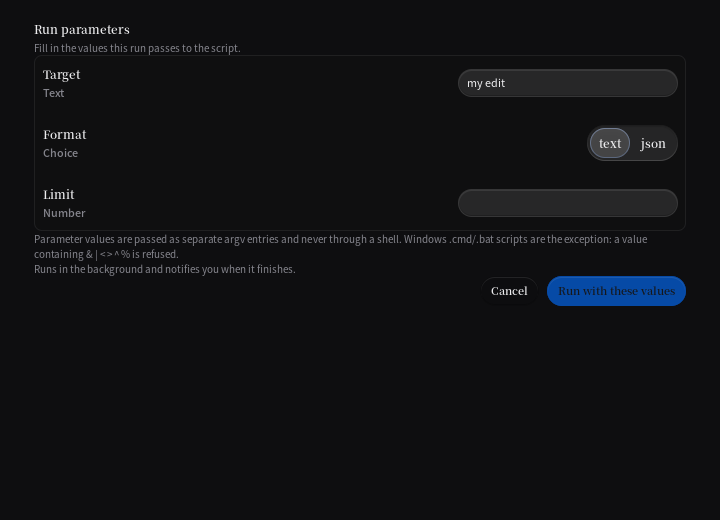
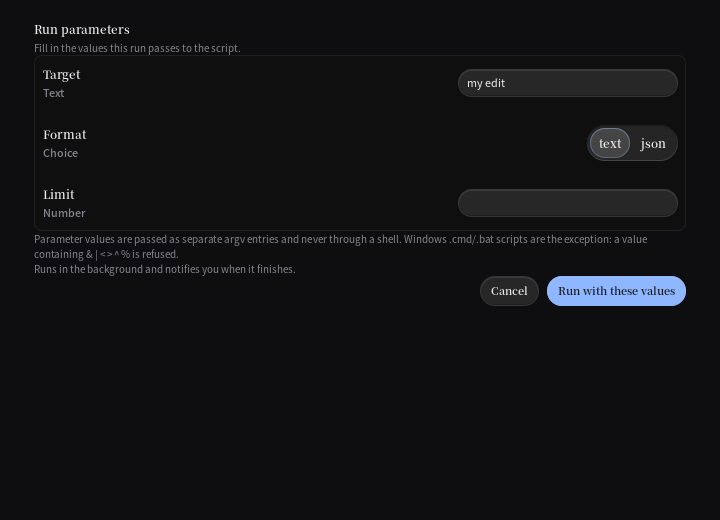
docs: 结案集成表单八项恢复修复与深浅验收(P13-ht)
补齐逐项现象改动验证、四批变异、stash 表、设计预检与深浅 12 组对照；修正新增测试的显式主题。V/B/S 0/0/0；全量 4032 PASS/0 FAIL（基线 4007），2879 测试函数；三平台 vet/build 过，gofmt 空。四批 mutation 实红且 MD5 恢复；最终新增事件 25 PASS。

Changed region(s): [[0.6417, 0.5231, 0.9778, 0.6154]]

diff --git a/internal/settingsui/runrecovery_test.go b/internal/settingsui/runrecovery_test.go
@@ -25,11 +25,19 @@ func recoveryDump(t *testing.T, tt *ui.Tester, name string, dark bool) {
 	}
 }
 
+func runRecoveryFrame(t *testing.T, a *App, integration *Integration, dark bool) *ui.Tester {
+	t.Helper()
+	if err := a.Store.Update(func(s *settings.Settings) { s.Theme = appearanceName(dark) }); err != nil {
+		t.Fatal(err)
+	}
+	return runStateFrame(t, a, integration, dark)
+}
+
 func TestRunRecoveryNewParameterDefaults(t *testing.T) {
 	for _, dark := range []bool{false, true} {
 		t.Run(appearanceName(dark), func(t *testing.T) {
 			a, integration := runStateApp(Param{ID: "target", Label: "Target", Kind: extensions.ParamText, Default: "original"})
-			tt := runStateFrame(t, a, integration, dark)
+			tt := runRecoveryFrame(t, a, integration, dark)
 			a.runValues["runner"]["target"] = "my edit"
 			integration.Params = append(integration.Params,
 				Param{ID: "format", Label: "Format", Kind: extensions.ParamSelect, Default: "json", Options: []string{"text", "json"}},
@@ -52,7 +60,7 @@ func TestRunRecoveryRemovedParameterCannotReachCommand(t *testing.T) {
 				Param{ID: "target", Label: "Target", Kind: extensions.ParamText, Default: "current"},
 				Param{ID: "obsolete", Label: "Obsolete", Kind: extensions.ParamText, Default: "old"},
 			)
-			tt := runStateFrame(t, a, integration, dark)
+			tt := runRecoveryFrame(t, a, integration, dark)
 			integration.Params = integration.Params[:1]
 			tt.Frame()
 			calls := 0
@@ -84,7 +92,7 @@ func TestRunRecoveryRetypedParameterForgetsUndo(t *testing.T) {
 	for _, dark := range []bool{false, true} {
 		t.Run(appearanceName(dark), func(t *testing.T) {
 			a, integration := runStateApp(Param{ID: "target", Label: "Target", Kind: extensions.ParamText, Default: "8"})
-			tt := runStateFrame(t, a, integration, dark)
+			tt := runRecoveryFrame(t, a, integration, dark)
 			label := mustFind(t, tt, "Target")
 			tt.ClickAt(568, label.Y+label.H/2)
 			tt.Frame()
@@ -115,7 +123,7 @@ func TestRunRecoveryCommandOwnsSubmittedAnswers(t *testing.T) {
 		submitted = values
 		return nil
 	}
-	tt := runStateFrame(t, a, integration, false)
+	tt := runRecoveryFrame(t, a, integration, false)
 	if err := tt.Click(i18n.For("en").Settings.RunLabel); err != nil {
 		t.Fatal(err)
 	}

diff --git a/docs/rounds/P13-ht-report.md b/docs/rounds/P13-ht-report.md
@@ -58,3 +58,74 @@ M3 HEAD 回注两缺陷实跑红，MD5 恢复与 touch 后配置族回归。V/B/
 V/B/S 0/0/0，旧行为断言零改。八项跨运行参数、配置确认、卸载对话框三个组件；未新增页面/系统/依赖。
 
 运行取消还需固定 `integration.actions` 行身份：仅同帧 Focus 会在下一帧因上方表单消失而失效，真实键盘 pin 抓到后补齐。M4 首次还原校验发现卸载注释从 Binding 改成 Querying 没进入备份；按 MD5 恢复该注释后再次逐字节核对和 touch 复跑，不隐瞒中间失败。
+
+第四批 `e5bea624` 已推送，相关回归 **100 PASS / 0 FAIL**，M4 还原、MD5 通过与 touch 后 **9 PASS**，settingsui vet 净。四批各两项，完整门槛在固定产品源码后集中执行，未声称每批都跑全部平台。
+
+## 偷了什么
+
+读取 qiaomu-design 的 SKILL、user-preferences、craft-loop、preflight、chinese-typography。已有唯一方向，按用户要求直接打磨，不生成四方向网页。Apple DESIGN 的交互单蓝、2px focus、8px 常规圆角只取语义，落到本仓既有 accent/框架焦点环/RadiusSM=8；没有复制其模糊、负中文字距或整页纯黑。
+
+- craft-loop 菜单 **第 3 项「品牌 focus 环」**：可操作焦点始终 1 个；配置取消回到 Configure，卸载失败留在 Uninstall，额外交接等待 **0ms**。
+- **第 4 项「签名交互」**：取消运行派发 **0 次**，一次提交保存 **1 份**独立答案，卸载两次明确按键派发 **2 次**；不加动画遮掩状态断裂。
+- **第 12 项「材质细节」**：新增材质层 **0**、新增容器 **0**，原 1px 边与 E0/E1/E2 保留；确认退场不再留下无法继续的焦点。
+
+没有为凑五项密度加装饰；临时主线与“先修已存在的功能”高于通用菜单。可复现规则落本仓 §6.195 与事件 pin，不改全局 skill 账本。
+
+## 两轮看图与预检
+
+第一轮旧实现截图与事件定位了空默认值、旧撤销值、丢焦点与 Tab 困住。第二轮发现只恢复当帧焦点不足，参数表单收起会改变动作行身份，补稳定 key 后重新截图与键盘验收。
+
+四视角：艺术总监看是否因修复增加层/影（新增 0）；工程师看默认格式与真实答案是否一致、动作身份是否稳定；任务使用者看取消后 Space 与失败后 Space 能否继续；读者看错误原文是否保留。仍有一个独立视觉线索：卸载失败带在右边缘有裁切迹象，留给下一轮先量，未擅改全族 noticeBand 几何。
+
+这张图上看到的变化：新增参数浅色图中选中项从 text 回到 json，数量从空槽变成 12；配置深色图的 Configure 重新有完整蓝环；卸载深色图的蓝环从 Cancel 移到 Uninstall，失败句留在原面上。运行取消使用指针事件，前后静态墨可以相同，键盘落点与后续 Space 由事件断言证明，不用相同图片冒充视觉变化。
+
+12 张左右对照图与 24 张原始 PNG 已入库，源文件在 `/tmp/floter-P13-ht-*`。代表图：[新增参数浅色](P13-ht/new-parameter-light-comparison.png)、[深色](P13-ht/new-parameter-dark-comparison.png)；[配置取消浅色](P13-ht/config-cancel-light-comparison.png)、[深色](P13-ht/config-cancel-dark-comparison.png)；[卸载重试浅色](P13-ht/uninstall-retry-light-comparison.png)、[深色](P13-ht/uninstall-retry-dark-comparison.png)。卸载旧图在 Tab 不可达时停止，新图能运行至失败态，这是同一事件序列的不同可达结果。
+
+| 检查 | 结论 |
+| --- | --- |
+| A1 渐变/纯黑/霓虹/渐变字 | 无新增，沿用原生近黑背景 |
+| A2 非系统字体 | 不适用；用户既有字体与中文 D2 优先 |
+| A3 斜体 | 无新增 |
+| A4 居中 Hero | 不适用，桌面表单 |
+| A5 卡片海/三等分 | 无新增卡片或布局容器 |
+| A6 假数据 | 无产品假指标；夹具为参数与错误的事件输入 |
+| A7 空词/感叹号 | 产品文案零改 |
+| A8 编号眉批 | 无新增 |
+| A9 H1 行数 | 现有页头完整，未改 |
+| A10 Bento 空洞 | 不适用 |
+| A11 侧边竖线强调 | 无新增 |
+| B1 读取/拨盘 | 克制、即时、保持原信息密度 |
+| B2 主题 | 深浅分别渲染，无混搭 |
+| B3 记忆点 | 当前答案与当前动作始终对应 |
+| B4 动效一致 | 焦点/答案交接额外 0ms |
+| C1 目的/频率 | 高频键盘没有新增动画 |
+| C2 all/ease-in/scale(0)/fade | 无新增 |
+| C3 时长/按压 | 原 120ms 颜色与 0.97 按压沿用 |
+| C4 浮层来源 | 原 modal 居中，未新增浮层 |
+| C5 reduced-motion | 图与事件使用 ReduceMotion=true，原降级保留 |
+| C6 hover 媒体查询 | 自绘无 CSS 媒体查询；沿用指针输入路径 |
+| C7 布局动画 | 无新增；原卸载 Position 过渡未改 |
+| C8 重播 keyframes | 无 |
+| C9 手势/拖拽 | 未涉及 |
+| C10 Framer Motion | 不适用，Go 自绘 |
+| C11 不确定动效 | 本轮固定 ReduceMotion 图验状态，不声称慢放或三平台真机证据 |
+| D2-1 中文字体 | 沿用系统中文字体，不加 webfont |
+| D2-2 字号/行高/字重 | 未通过通用 ≥14px 要求；仓内 Caption 9.9/Body 10.8 与旧行高是既有需拍板项，保留不改 |
+| D2-3 混排空格 | i18n 文案零改，不新增混排问题 |
+| D2-4 标点/暗色对比 | 文案/token 零改；不声称全部旧文字达到 7:1，延续字号/对比度拍板账 |
+
+## 仍待
+
+下一轮先量卸载失败带的右沿及其按钮焦点环裁切（本轮截图可见线索），连同已有 noticeBand 的错误/确认边界同族检查。运行参数全部移除再恢复时的会话记忆生命周期可作为后续真实事件线索，未复现不计 bug。字号/行盒、保存期间草稿归属和终端 S1b/S1c/S2 尾仍沿用需拍板。macOS/Windows 只做编译与 vet，不宣称真机交互。
+
+## 门槛（最终）
+
+完整普通与 verbose 全量均退出 **0**；最终 **4032 PASS / 0 FAIL**（基线 4007），测试函数 **2879**（基线 2870）。三平台 vet/build 均退出 0；gofmt 列表空，文档合约检查退出 0。V/B/S 旧断言修改 **0/0/0**，无新增 Skip。
+
+产品代码固定于第四批。收尾看图发现复用的 runStateFrame 用 auto 主题，深色画布下部分墨仍按浅色计算；本轮新增夹具改为显式 light/dark（旧测试不动）。补图使用 Go `-overlay` 编译开盘产品，旧缺陷三场景六子场景仍红，当前产品文件 MD5 未变；修正夹具后的全部新增事件 **25 PASS / 0 FAIL**，三平台 settingsui vet 净。完整全量计数来自夹具修正前，产品源码与最终一致；没有冒充修改测试后重跑了整轮门槛。
+
+证据：[普通全量](P13-ht/full-test.txt)、[最终定向](P13-ht/final-targeted.txt)、[门槛摘要](P13-ht/gates.txt)、[源码 MD5](P13-ht/final-source.md5)。verbose 完整日志在 `/tmp/floter-P13-ht/full-verbose.txt`，基线在 `/tmp/floter-P13-ht/baseline.log`。
+
+过程偏差：13:18 UTC 开盘，13:50 UTC 完成完整门槛与图复核，约 32 分钟，低于 45–75 分钟目标；工具调用超过 40 次预算，主要用于真实事件定位与验收，未继续扩大产品选题。八项已按每两项分批推送；没有为凑时长加入无关改动。M4 中间 MD5 注释差异与错误主题图均如实记录并修正。
+
+4× 局部复核：[Configure 焦点环](P13-ht/focus-detail.png)，蓝环完整且未压到按钮文字。其余深浅对照已逐组复核；未把指针路径的无像素差当成失败。

diff --git a/.pending-bugs.md b/.pending-bugs.md
@@ -1,16 +1,16 @@
-## 当前进度（P13-hs：配置动作的确认与恢复，八项已落地）
+## 当前进度（P13-ht：集成表单刷新与动作恢复，八项已落地）
 
-起点 `6e3e4f09`；四批两项 `41c51dac`、`480e78c5`、`bb91c79d`、`43d22172` 均已推送。
-八项跨配置浮层按钮与启动器配置状态组件：取消恢复焦点、失败保持焦点、移除退役确认、改型退役确认、拒绝未确认/重复执行、拒绝过期动作夺取确认、写回回调实例归属、动作回调实例归属。
-逐条“现象 → 改动 → 验证”、深浅 before/after、stash 表与四批变异见 `docs/rounds/P13-hs-report.md`；合约 §6.194。
+起点 `a1674426`；四批两项 `364ef2b8`、`dfa8ef77`、`546de9d0`、`e5bea624` 均已推送。
+八项跨运行参数、配置确认、卸载对话框：新参数默认值、删除参数退役、改型撤销隔离、提交快照、配置取消焦点、配置丢弃可达与回焦、运行取消回焦、卸载 Tab 与失败重试。
+逐条“现象 → 改动 → 验证”、深浅 before/after、stash 表与四批变异见 `docs/rounds/P13-ht-report.md`；合约 §6.195。
 
-基线 **3971 PASS / 0 FAIL / 2858 测试函数**；最终 **4007 PASS / 0 FAIL / 2870 测试函数**。定向回归 **44 PASS / 0 FAIL**，三平台 vet/build 已过，gofmt 空，固定源码上的普通与 verbose 完整测试均退出 0。
-V/B/S 0/0/0；旧测试零改，无新增 Skip。四组 mutation 实跑红、MD5 恢复与 touch 后分别 6/6/2/10 PASS。截图为本机 Linux ui.Tester 原生自绘，其他平台验编译。
+基线 **4007 PASS / 0 FAIL / 2870 测试函数**；最终 **4032 PASS / 0 FAIL / 2879 测试函数**，普通与 verbose 全量均退出 0。定向第四批 **100 PASS / 0 FAIL**，三平台 vet/build 已过，gofmt 空。收尾仅修正新增截图夹具的主题，产品 MD5 不变，全部新增事件 **25 PASS** 且三平台定向 vet 过。
+V/B/S 0/0/0；旧测试零改，无新增 Skip。四组 mutation 实跑红，MD5 恢复与 touch 后分别 6/4/42（配置族）/9 PASS；M4 注释备份差异已修正且再次 MD5 通过。截图为本机 Linux ui.Tester 原生自绘，其他平台验编译。
 
-### 仍待（P13-hs）
+### 仍待（P13-ht）
 
-1. 下一轮首选设置集成动作的取消/失败恢复族：`runForm` 参数、配置折叠确认、卸载取消的焦点与行忙态交接。先真实事件复现，未复现不计 bug；不重复本轮插件动作路径。
-2. 本轮回调关闭/切换的边界通过注入同步回调验证，不宣称已在系统插件上发生真实崩溃；无三平台真机交互证据。
+1. 下一轮首选卸载失败带右沿与按钮焦点环的裁切，截图已有线索；同族 noticeBand 的错误/确认边界一起先量后修，不改高度链或全局字号。
+2. 参数全部移除后再恢复的会话记忆生命周期是代码线索，尚未真实事件复现，不计本轮修复。无 macOS/Windows 真机交互证据。
 3. accent 禁用填充、字号/行盒、正文 ≥14px、未列举多选值、176-9/161-4 保存期间草稿归属、终端 S1b/S1c/S2 尾继续沿用需拍板。
 4. 小于 1e-6 数字步长仍受宿主六位存储规则限制，未知 Radio 选择模型沿用需拍板。
 5. 八条早期非 stale-kill WIP reverse-check 均退出 1、与上轮 SHA 相同，逐项保留；已归档抢救稿不重复合入。

diff --git a/docs/liquid-glass.md b/docs/liquid-glass.md
@@ -7572,3 +7572,20 @@ pin 与深浅前后图、V/B/S、四条变异、stash 清点见 `rounds/P13-hl-r
 
 为什么更轻、更有空间感：失效的确认及时退场，键盘焦点始终有明确落点；新增面、阴影、包装容器均为 0。
 两步确认、键位、高度链、i18n、写入时机与会话语义不变；入口补齐已有确认契约，回调不额外执行命令。深浅图、事件 pin、mutation 与边界说明见 `rounds/P13-hs-report.md`。
+
+### §6.195 集成表单刷新与动作恢复（P13-ht）
+
+表单只提交当前参数、当次答案；确认的焦点在出现时进入，在退出时归还，失败后留在当前动作。
+
+| 项 | 现象 | 落地 | 状态 |
+| --- | --- | --- | --- |
+| 195-1 | 新增参数默认值未出现 | 补齐新增答案，保留现有手改值 | `已落地` |
+| 195-2 | 删除参数仍进入命令/重加复活旧值 | 按当前 ID 集退役答案 | `已落地` |
+| 195-3 | 参数改型继承旧撤销历史 | 编辑器身份包含 kind | `已落地` |
+| 195-4 | 后续编辑改写已提交命令 | Run 消费独立答案快照 | `已落地` |
+| 195-5 | 配置取消后键盘落空 | 同帧归还 Configure 焦点 | `已落地` |
+| 195-6 | Tab 到不了丢弃/丢弃后入口失焦 | 首次 AutoFocus，丢弃后回入口 | `已落地` |
+| 195-7 | 参数取消后不能键盘重开 | 稳定动作行身份并归还 Run 焦点 | `已落地` |
+| 195-8 | 卸载 Tab 困在取消，失败不能重试 | 面板直接查询焦点，动作行 key 稳定 | `已落地` |
+
+为什么更轻、更有空间感：收起的表单和确认不留下失效的键盘落点，用户始终能辨认当前动作；不增加面、影或布局包装。旧键位、存储时机、命令接线、会话和字体/高度链不变。八项事件证据、深浅图与限制见 `rounds/P13-ht-report.md`。
